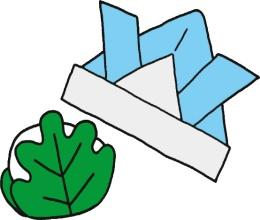
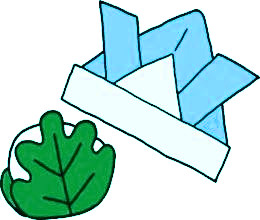
tusin201805

diff --git a/_tusin/tusin201805.md b/_tusin/tusin201805.md
@@ -40,7 +40,7 @@ navigation: true
 
 ## <span data-dur="2.499" data-begin="49.687">5月活動予定</span>
 
-<img class="migi" src="media/tusin201805/cut2.jpg" alt="カット2" />
+<img class="migi" src="media/tusin201805/cut2.png" alt="カット2" />
 
 <span data-dur="1.497" data-begin="52.186">11日</span>
 <span data-dur="3.34" data-begin="53.683">やまびこ総会・懇親会</span>  
